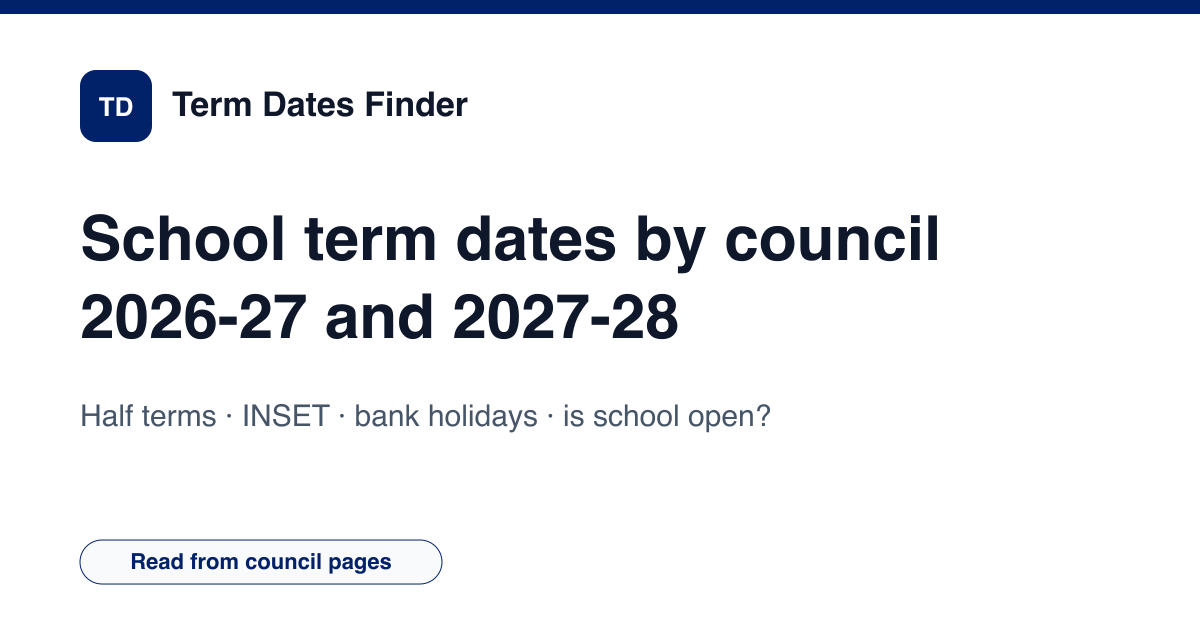
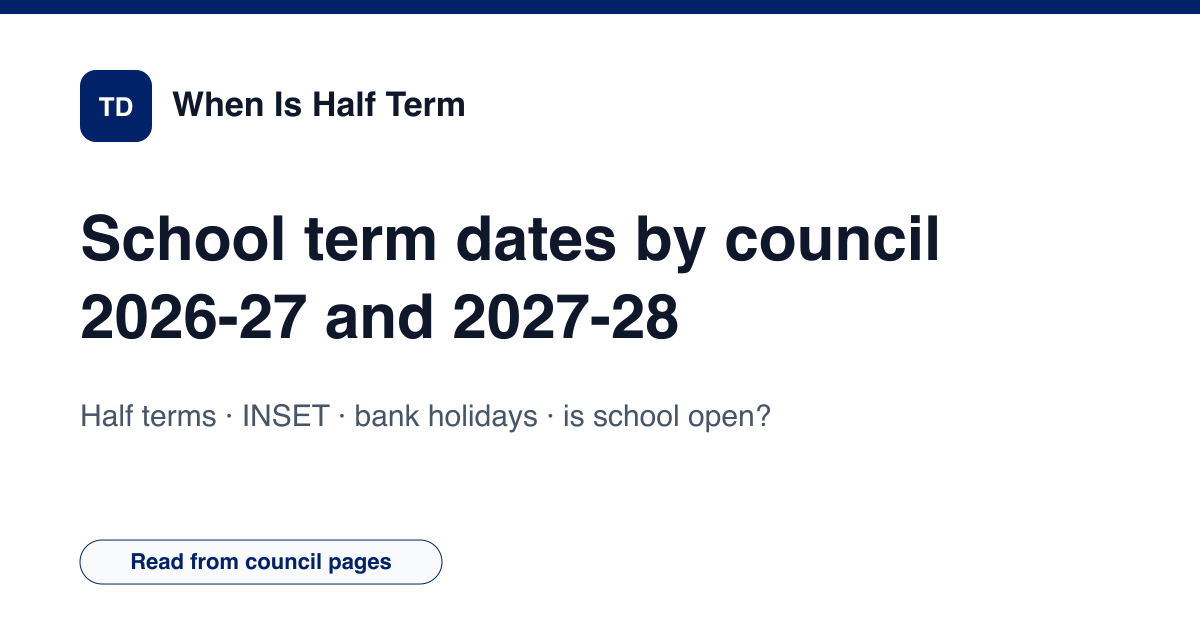
Nom du site : « When Is Half Term » (les mots du domaine, « Half Term » en couleur) au lieu de « Term Dates Finder » : en-tête, pied de page, nom pour Google (og:site_name, données structurées), manifest, image de partage, pages À propos, contact, légales et widgets ; menu du haut sans retour à la l

Changed region(s): [[0.1233, 0.1206, 0.4008, 0.181]]

diff --git a/src/i18n/ui.ts b/src/i18n/ui.ts
@@ -4,7 +4,7 @@ const en = {
   skipToContent: 'Skip to content', mainNav: 'Main navigation', breadcrumbLabel: 'Breadcrumb', breadcrumbHome: 'Home', menuOpen: 'Open menu',
   faqTitle: 'Questions parents ask', relatedCalculators: 'Next pages to read', sourcesTitle: 'Where the dates come from', writtenBy: 'Compiled by',
   asOf: 'School years 2026-27 and 2027-28', lastUpdated: 'council pages last read on', footerValidated: 'Read on council pages, the DfE, gov.scot, gov.wales and education-ni', footerBrowser: 'The checker runs in your browser · nothing you type is sent anywhere · free, no account',
-  footerDisclaimer: 'Term Dates Finder is an independent site published by Radif Partners. It is not a council, the Department for Education or a school. Council calendars apply to community and voluntary controlled schools; academies, free schools, foundation, voluntary aided and independent schools can set other dates, and every school chooses some of its own INSET days. Check your child’s school before you book.', footerPopular: '', notFound: 'This page is not on the site. The council list and the date checker are one click away.',
+  footerDisclaimer: 'When Is Half Term is an independent site published by Radif Partners. It is not a council, the Department for Education or a school. Council calendars apply to community and voluntary controlled schools; academies, free schools, foundation, voluntary aided and independent schools can set other dates, and every school chooses some of its own INSET days. Check your child’s school before you book.', footerPopular: '', notFound: 'This page is not on the site. The council list and the date checker are one click away.',
   readMore: 'Read more', disclaimer: 'A council calendar is an indication only: it does not replace the calendar of your child’s school.',
 };
 export function t(_lang: Locale) { return en; }

diff --git a/src/pages/llms.txt.ts b/src/pages/llms.txt.ts
@@ -6,7 +6,7 @@ import { route } from '../i18n/routes';
 import { SITE_URL, LAST_UPDATED } from '../data/site-config';
 export const GET: APIRoute = () => {
   const lines = [
-    '# Term Dates Finder',
+    '# When Is Half Term',
     '',
     `> School term and holiday dates for 2026-27 and 2027-28, council by council, across England, Scotland, Wales and Northern Ireland. Each calendar is read on the council's own website and stored with its source link and reading date (last ${LAST_UPDATED}). Tools: is school open on a date, countdown to the next break, school days left, comparison of two councils, term-time holiday fine calculator. Published by Radif Partners, an independent publisher; not a council or government site.`,
     '',

diff --git a/src/data/site-config.ts b/src/data/site-config.ts
@@ -1,6 +1,8 @@
 /** Configuration centrale du site (générée par new-site.py). */
 export const SITE_URL = "https://whenishalfterm.co.uk";
-export const SITE_NAMES: Record<string, string> = {"en": "Term Dates Finder"};
+// Partie du nom en couleur dans l'en-tete ('' = aucune).
+export const BRAND_ACCENT = 'Half Term';
+export const SITE_NAMES: Record<string, string> = {"en": "When Is Half Term"};
 export const LANG_TAGS: Record<string, string> = {"en": "en-GB"};
 export const OG_LOCALES: Record<string, string> = {"en": "en_GB"};
 export const LOCALE_TAG = 'en-GB';

diff --git a/CONTRIBUTING-PAGES.md b/CONTRIBUTING-PAGES.md
@@ -1,4 +1,4 @@
-# Ajouter un conseil ou un guide à Term Dates Finder
+# Ajouter un conseil ou un guide à When Is Half Term
 
 Notice pour l'agent qui prolonge le site. À lire avec `~/Documents/GitHub/RECETTE-SITE.md` (§6, §7, §9.3, §11, §21, §26).
 
